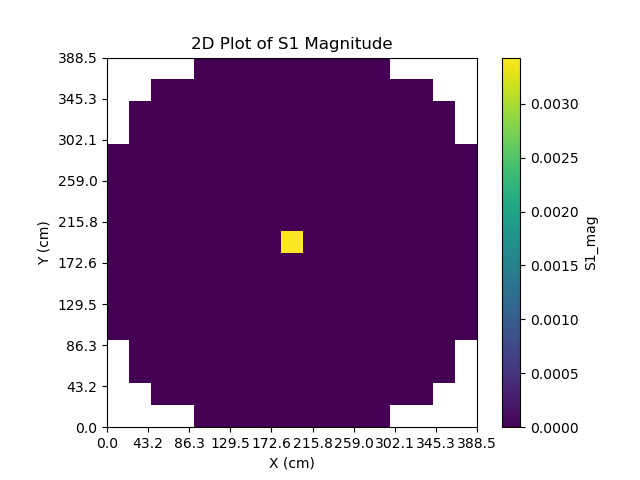
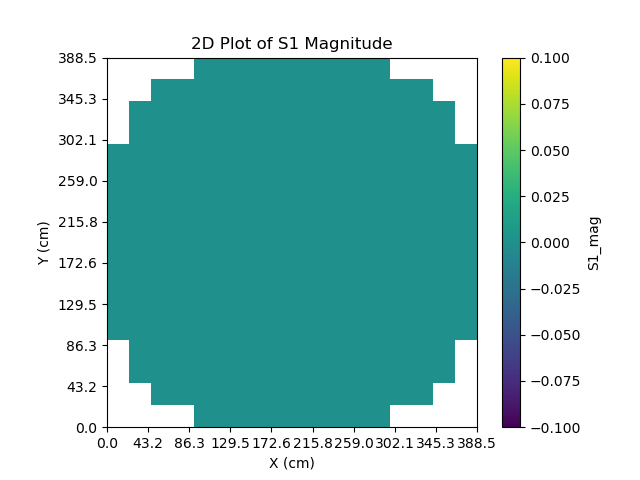
add new things

diff --git a/SRC/MAIN.py b/SRC/MAIN.py
@@ -73,12 +73,12 @@ sys.path.append('../')
 #from INPUTS.OBJECTIVES3_TEST08_3DTriMG_HTTR_FAV import *
 #from INPUTS.OBJECTIVES3_TEST09_3DMG_Langenbuch_AVS import *
 
-#from INPUTS.OTHERS_PAPERHTTR_TEST01_2DMG_BIBLIS_AVS import *
+from INPUTS.OTHERS_PAPERHTTR_TEST01_2DMG_BIBLIS_AVS import *
 #from INPUTS.OTHERS_PAPERHTTR_TEST02_2DMG_BIBLIS_FAV import *
 #from INPUTS.OTHERS_PAPERHTTR_TEST03_2DTriMG_HTTR_AVS import *
 #from INPUTS.OTHERS_PAPERHTTR_TEST04_2DTriMG_HTTR_FAV import *
 #from INPUTS.OTHERS_PAPERHTTR_TEST05_3DMG_CSTest09_AVS import *
-from INPUTS.OTHERS_PAPERHTTR_TEST06_3DMG_CSTest09_FAV import *
+#from INPUTS.OTHERS_PAPERHTTR_TEST06_3DMG_CSTest09_FAV import *
 #from INPUTS.OTHERS_PAPERHTTR_TEST07_3DTriMG_HTTR_AVS import *
 #from INPUTS.OTHERS_PAPERHTTR_TEST08_3DTriMG_HTTR_FAV import *
 

diff --git a/SRC/POINT_KINETIC_COMPONENTS.py b/SRC/POINT_KINETIC_COMPONENTS.py
@@ -32,10 +32,10 @@ sys.path.append('../')
 #from INPUTS.OBJECTIVES3_TEST08_3DTriMG_HTTR_FAV import *
 #from INPUTS.OBJECTIVES3_TEST09_3DMG_Langenbuch_AVS import *
 
-#from INPUTS.OTHERS_PAPERHTTR_TEST01_2DMG_BIBLIS_AVS import *
+from INPUTS.OTHERS_PAPERHTTR_TEST01_2DMG_BIBLIS_AVS import *
 #from INPUTS.OTHERS_PAPERHTTR_TEST02_2DMG_BIBLIS_FAV import *
 #from INPUTS.OTHERS_PAPERHTTR_TEST03_2DTriMG_HTTR_AVS import *
-from INPUTS.OTHERS_PAPERHTTR_TEST04_2DTriMG_HTTR_FAV import *
+#from INPUTS.OTHERS_PAPERHTTR_TEST04_2DTriMG_HTTR_FAV import *
 #from INPUTS.OTHERS_PAPERHTTR_TEST05_3DMG_CSTest09_AVS import *
 #from INPUTS.OTHERS_PAPERHTTR_TEST06_3DMG_CSTest09_FAV import *
 #from INPUTS.OTHERS_PAPERHTTR_TEST07_3DTriMG_HTTR_AVS import *

diff --git a/SRC/TRANSFER_FUNCTION.py b/SRC/TRANSFER_FUNCTION.py
@@ -55,10 +55,10 @@ sys.path.append('../')
 #from INPUTS.OBJECTIVES3_TEST08_3DTriMG_HTTR_FAV import *
 #from INPUTS.OBJECTIVES3_TEST09_3DMG_Langenbuch_AVS import *
 
-#from INPUTS.OTHERS_PAPERHTTR_TEST01_2DMG_BIBLIS_AVS import *
+from INPUTS.OTHERS_PAPERHTTR_TEST01_2DMG_BIBLIS_AVS import *
 #from INPUTS.OTHERS_PAPERHTTR_TEST03_2DTriMG_HTTR_AVS import *
 #from INPUTS.OTHERS_PAPERHTTR_TEST05_3DMG_CSTest09_AVS import *
-from INPUTS.OTHERS_PAPERHTTR_TEST07_3DTriMG_HTTR_AVS import *
+#from INPUTS.OTHERS_PAPERHTTR_TEST07_3DTriMG_HTTR_AVS import *
 
 #from INPUTS.TASK1_TEST22_3DTriMG_3rings import *
 

diff --git a/INPUTS/OTHERS_PAPERHTTR_TEST01_2DMG_BIBLIS_AVS.py b/INPUTS/OTHERS_PAPERHTTR_TEST01_2DMG_BIBLIS_AVS.py
@@ -95,11 +95,7 @@ dSIGS22 = [[0] * I_max for _ in range(J_max)]
 
 for j in range(8 * 5, 9 * 5):
     for i in range(8 * 5, 9 * 5):
-        dSIGS12[j][i] = 0.005
-        dABS1[j][i] = 0.005
-        dABS2[j][i] = 0.005
-        dNUFIS1[j][i] = 0.005
-        dNUFIS2[j][i] = 0.005
+        dABS2[j][i] = 0.05
 
 # Perform element-wise addition
 for j in range(J_max):  # Iterate over columns
